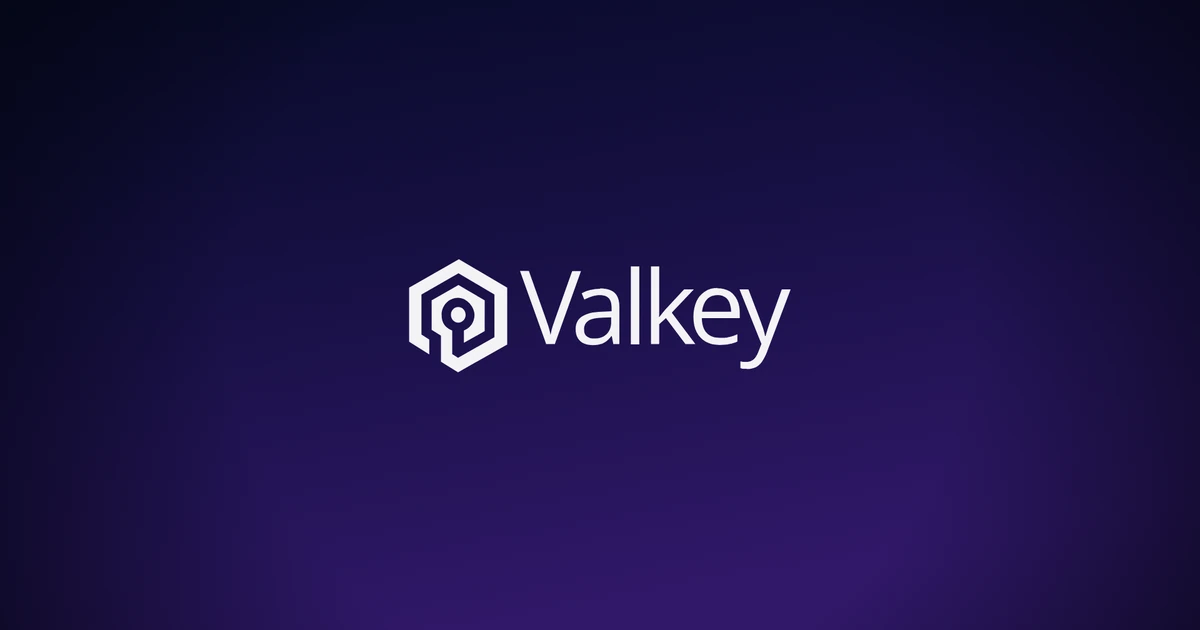
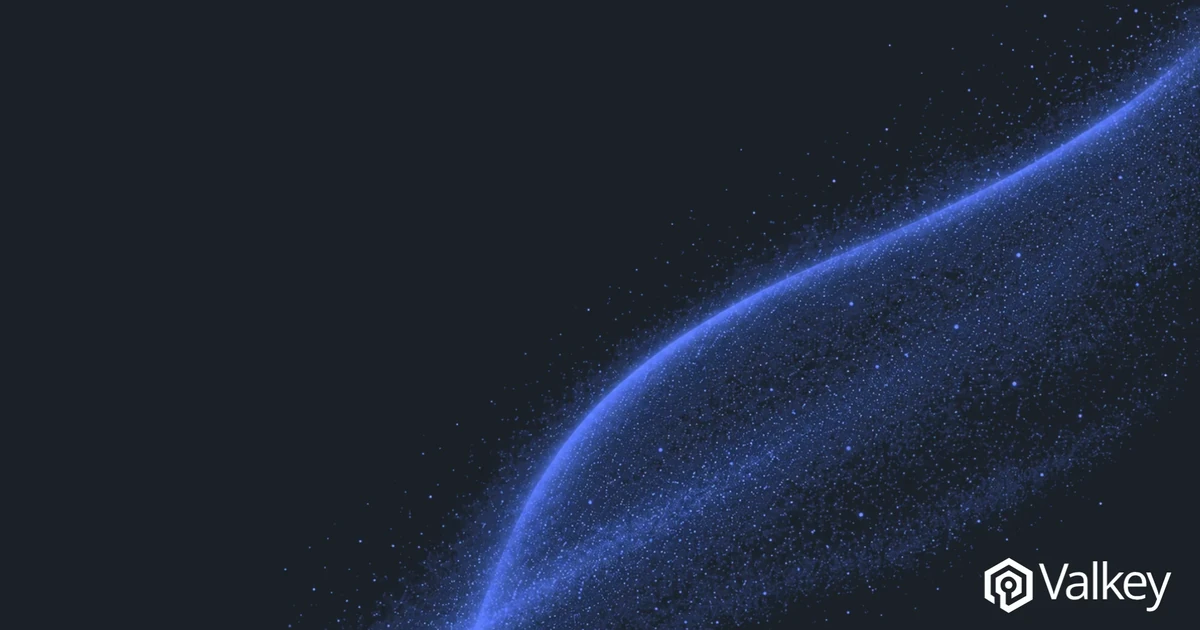
Make the default card madolson's particle-wave background with the title in Open Sans
hero_motif = "none" now gives a card on madolson's background, which carries
the Valkey logo, instead of the valkey-svgs ground with a corner lockup.
The title is set in white Open Sans over the dark upper left as her mockup
places it: a 9% cap height, its last baseline at 30% of the height, 5%
from the left and kept left of 55%, clear of the wave. A title that does
not fit one line at that size takes whichever of one to four lines lets it
be largest while its top stays inside a 6% margin.

extra.hero_subtitle adds a line under the title at 55% of its size, with
its baseline at 45% of the height.

extract.mjs re-encodes the background, at twice the widest card, and its
1200x630 preview when given her PNG. The security card is unchanged.

diff --git a/sass/_blog-hero.scss b/sass/_blog-hero.scss
@@ -1,12 +1,14 @@
 // The blog hero card. Markup: templates/macros/blog-hero.html. Art: static/assets/media/
 // blog-hero/, from build/blog-hero/extract.mjs.
 //
-// valkey-svgs' card layout: the lockup in the upper left, the title in the lower left on
-// light blocks that run off the left edge, and the shield centred in the right of the card,
-// faded so the title can run over it at full width. The card is 16:9 at every width, valkey-svgs' own frame, and its
-// contents never change its size: a plain card and a shield card, with any title, are the
-// same box. Sizes are in cqi of the card, so it is one picture scaled to any width and a
-// title wraps the same way at every size.
+// Two cards share one box. The security card is valkey-svgs' card layout: the lockup in the
+// upper left, the title in the lower left on light blocks that run off the left edge, and the
+// shield centred in the right of the card, faded so the title can run over it at full width.
+// The default card, at the end of this file, is madolson's background with the title in
+// white over it. Either is 16:9 at every width, valkey-svgs' own frame, and its contents
+// never change its size: both cards, with any title, are the same box. Sizes are in cqi of
+// the card, so it is one picture scaled to any width and a title wraps the same way at
+// every size.
 //
 // The art is a background rather than <img>, so the post column's rules for images in
 // the post body never reach it.
@@ -97,4 +99,50 @@ $blog-hero-ice: #CCF1FF;
     -webkit-box-decoration-break: clone;
     box-decoration-break: clone;
   }
+}
+
+// The default card: madolson's background, which already carries the logo, with the title
+// in white Open Sans over its dark upper left, placed as her mockup places it. In cqi of the
+// card, which is 56.25cqi tall:
+//   - The heading's cap height is 9% of the height, so 7.09cqi type. Its last baseline sits
+//     at 30% of the height, 16.875cqi, and longer titles grow upward from there.
+//   - The subheading is 55% of the heading. Its first baseline sits at 45%, 25.3125cqi.
+//   - Both start 5% across and stay left of 55%, over the dark area and off the wave.
+// A title that does not fit one line at full size takes whichever of one to four lines lets
+// it be largest. Each term is the size that fits it in that many lines of the 50cqi column
+// and keeps its cap top below a 6% margin: a character is taken as 0.56em of Open Sans, and
+// each line after the first allows 8 characters for a word stranded by wrapping, which holds
+// with room to spare for every title on the blog. Open Sans's baseline sits 0.963em below
+// the top of a 1.15 line box and 0.187em above its bottom.
+.blog-hero--default {
+  --heading: clamp(0.9rem, max(
+    min(7.09cqi, 50cqi / (0.56 * var(--blog-hero-chars))),
+    min(7.09cqi, 100cqi / (0.56 * (var(--blog-hero-chars) + 8))),
+    min(4.48cqi, 150cqi / (0.56 * (var(--blog-hero-chars) + 16))),
+    min(3.24cqi, 200cqi / (0.56 * (var(--blog-hero-chars) + 24)))
+  ), 7.09cqi);
+  position: relative;
+  background: #1b2028 url(/assets/media/blog-hero/default-bg.webp) center / cover no-repeat;
+  color: #fff;
+  @include sans-serif;
+  font-weight: 400;
+}
+
+.blog-hero-heading,
+.blog-hero-subheading {
+  position: absolute;
+  left: 5cqi;
+  width: 50cqi;
+  line-height: 1.15;
+  overflow-wrap: break-word;
+}
+
+.blog-hero-heading {
+  bottom: calc(39.375cqi - 0.187em);
+  font-size: var(--heading);
+}
+
+.blog-hero-subheading {
+  top: calc(25.3125cqi - 0.963em);
+  font-size: max(1rem, 0.55 * var(--heading));
 }

diff --git a/templates/macros/blog-hero.html b/templates/macros/blog-hero.html
@@ -1,18 +1,19 @@
 {#
-  The blog hero card, for posts that opt in with `extra.hero_motif`: the valkey-svgs banner
-  system (the shared ground, the corner lockup, the post title on light blocks, and a faded
-  motif behind the right of the card) composed in HTML, so the title is real text that wraps to any width.
-  The art is in static/assets/media/blog-hero/, regenerated by build/blog-hero/extract.mjs;
-  the layout is in sass/_blog-hero.scss.
+  The blog hero card, for posts that opt in with `extra.hero_motif`, composed in HTML so the
+  title is real text that wraps to any width. The art is in static/assets/media/blog-hero/,
+  regenerated by build/blog-hero/extract.mjs; the layout is in sass/_blog-hero.scss.
 
-  Setting `hero_motif` at all opts in. "security" adds the shield;
-  "none", or any other value, gets the card with no motif. `extra.hero_title` replaces the
-  post title on the card only, and each "\n" in it starts a new line.
+  Setting `hero_motif` at all opts in. "security" gets the valkey-svgs card: the shared
+  ground, the corner lockup, the post title on light blocks and the shield faded in behind
+  it. "none", or any other value, gets the default card: madolson's background, which
+  carries the logo, with the title and an optional `extra.hero_subtitle` in white over its
+  dark upper left. `extra.hero_title` replaces the post title on either card only, and each
+  "\n" in it starts a new line.
   An opted-in post shows the card instead of its `featured_image` and uses the card's
   preview for og:image. Every other post is untouched.
 #}
 
-{# The motif's name, or nothing for the plain card. #}
+{# The motif's name, or nothing for the default card. #}
 {% component blog_hero.motif(page) -%}
   {%- set motif = page.extra.hero_motif | default(value="") -%}
   {%- if motif in ["security"] %}{{ motif }}{% endif -%}
@@ -30,15 +31,24 @@
 {% component blog_hero.card(page) -%}
   {%- set motif %}{{< blog_hero.motif page={page} />}}{% endset -%}
   {%- set title = page.extra.hero_title | default(value=page.title) -%}
-  <div class="blog-hero{% if motif %} blog-hero--motif{% endif %}" aria-hidden="true">
+  {%- if motif -%}
+  <div class="blog-hero blog-hero--motif" aria-hidden="true">
     <div class="blog-hero-body">
       <span class="blog-hero-lockup"></span>
       <div class="blog-hero-title" style="--blog-hero-chars: {{ title | length }}"><span>
         {%- for line in title | split(pat="\n") %}{% if not loop.first %}<br>{% endif %}{{ line | trim }}{% endfor -%}
       </span></div>
-      {%- if motif %}
       <span class="blog-hero-motif" style="background-image: url(/assets/media/blog-hero/motif-{{ motif }}.svg)"></span>
-      {%- endif %}
     </div>
   </div>
+  {%- else %}
+  <div class="blog-hero blog-hero--default" aria-hidden="true" style="--blog-hero-chars: {{ title | length }}">
+    <div class="blog-hero-heading">
+      {%- for line in title | split(pat="\n") %}{% if not loop.first %}<br>{% endif %}{{ line | trim }}{% endfor -%}
+    </div>
+    {%- if page.extra.hero_subtitle %}
+    <div class="blog-hero-subheading">{{ page.extra.hero_subtitle }}</div>
+    {%- endif %}
+  </div>
+  {%- endif -%}
 {%- endcomponent blog_hero.card %}

diff --git a/CONTRIBUTING-BLOG-POST.md b/CONTRIBUTING-BLOG-POST.md
@@ -168,14 +168,16 @@ draft = true
     # "/assets/media/featured/random-06.webp"
     # "/assets/media/featured/random-07.webp"
     featured_image = "/assets/media/featured/random-01.webp"
-    # 'hero_motif' (optional) replaces the featured image with a title card: the Valkey
-    # banner background and logo with your title on it, which is also the link preview.
-    # "security" adds the Valkey security shield, faded behind the title; "none" gives the card
-    # without it. Leave it out to keep the image.
-    hero_motif = "security"
+    # 'hero_motif' (optional) replaces the featured image with a title card that carries your
+    # title and the Valkey logo, and is also the link preview. Leave it out to keep the image.
+    # "none" gives the default card: the title in white over the Valkey particle-wave background.
+    # "security" gives the Valkey security card, with the security shield faded behind the title.
+    hero_motif = "none"
     # 'hero_title' (optional) is the title on the card when it should differ from 'title',
     # usually to choose the line breaks: each "\n" starts a new line. The page title is unchanged.
     hero_title = "Using Valkey for\nmind control experiments"
+    # 'hero_subtitle' (optional) is a short line under the title on the default card.
+    hero_subtitle = "What the hippocampus caches"
 +++
 ```
 
